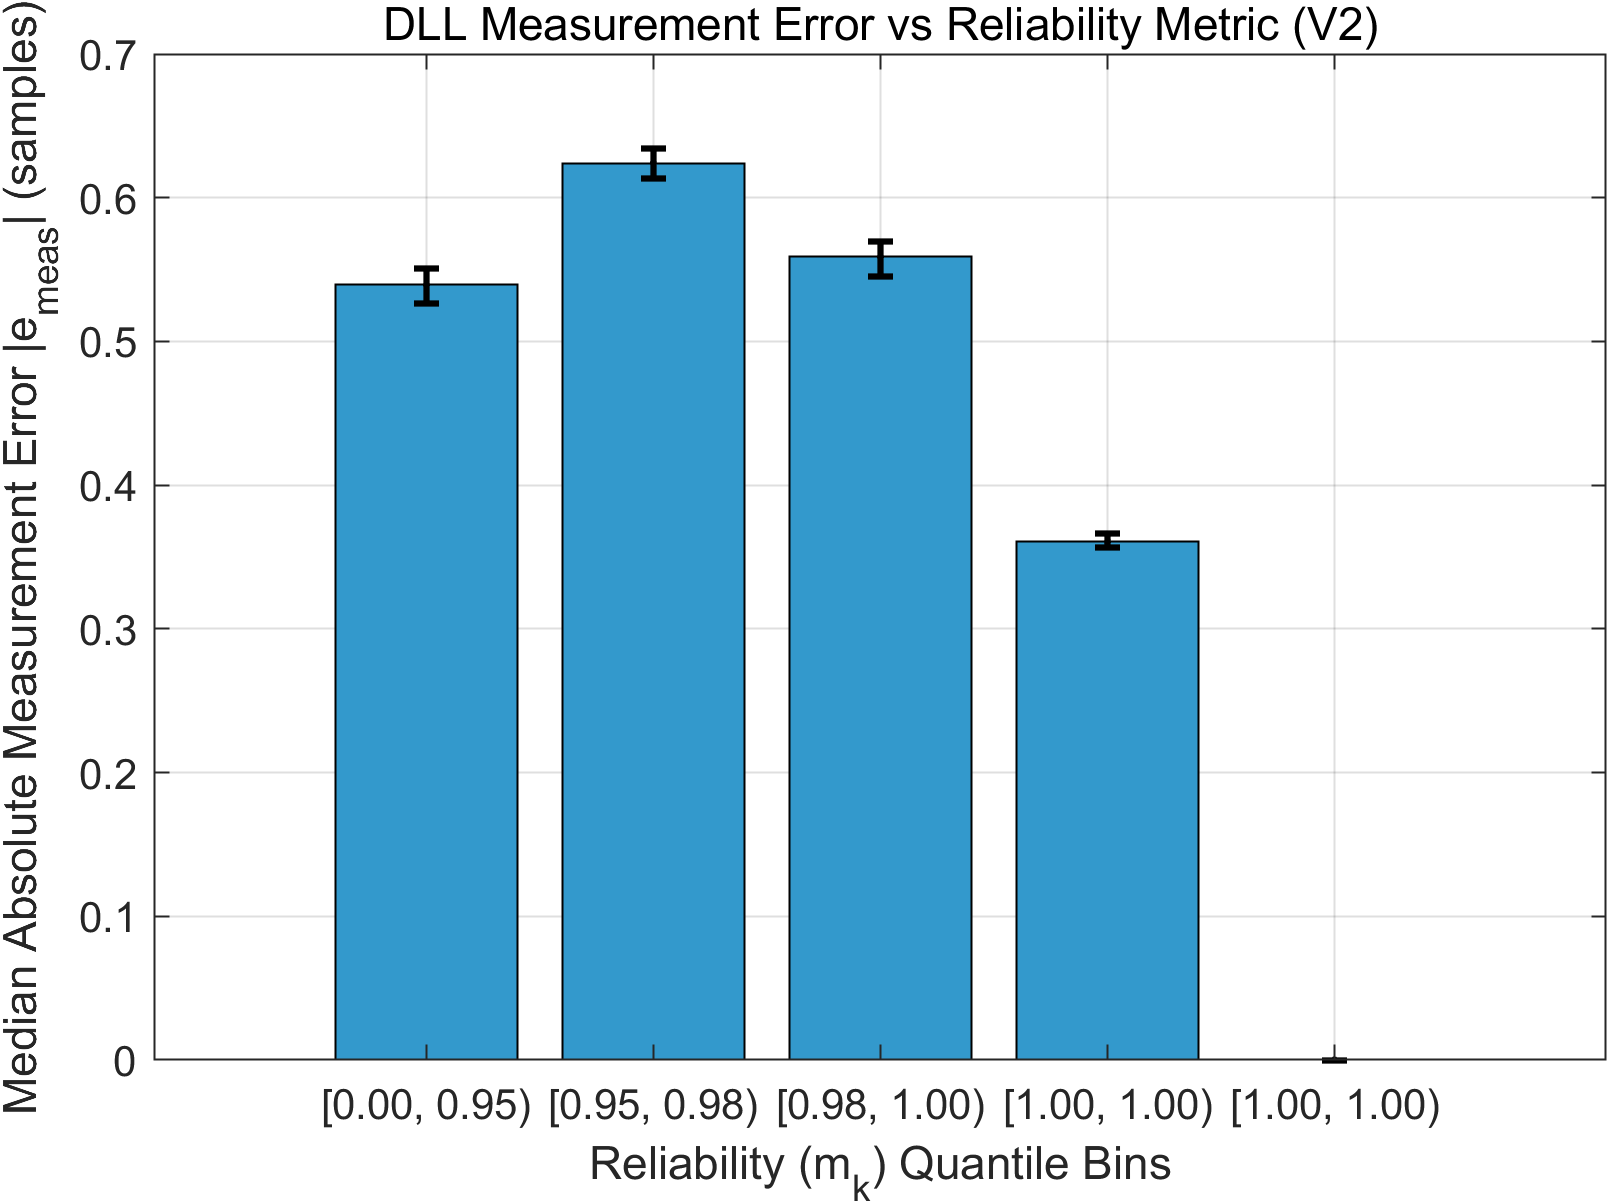
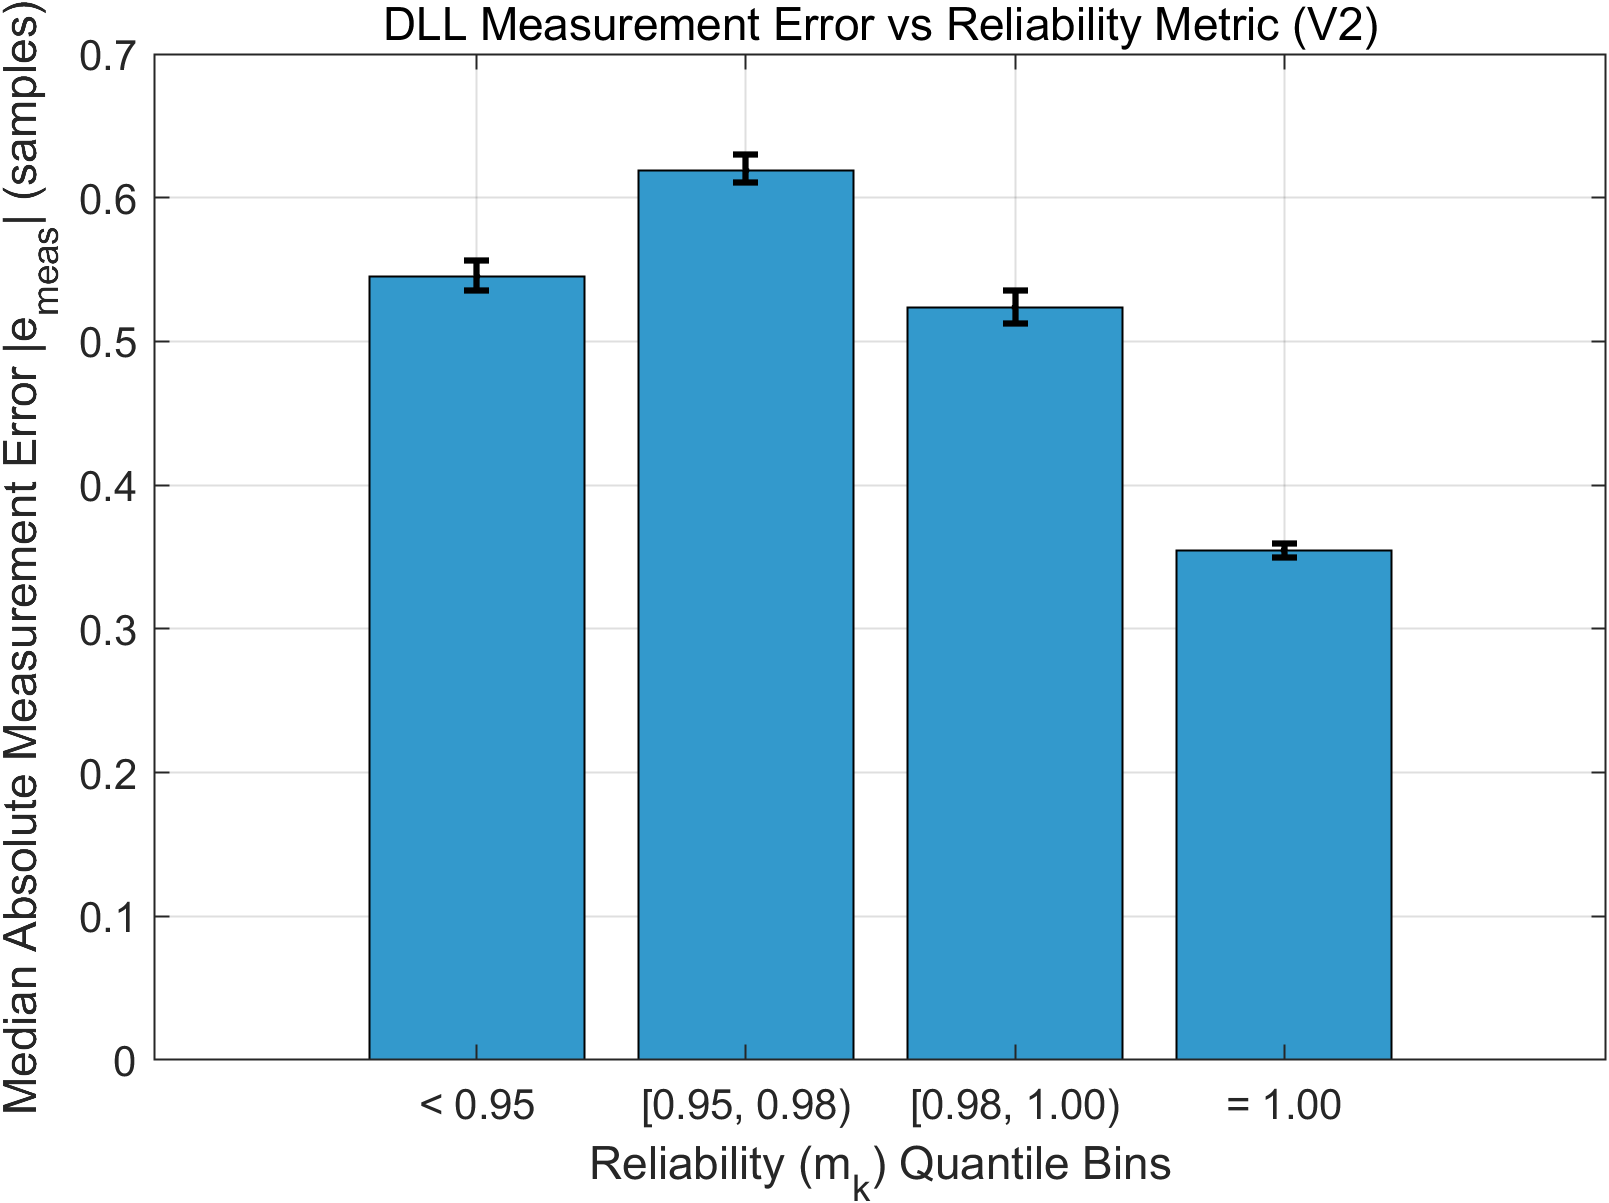
Fix stage 1 reliability binning and add stage 7 extraction

Changed region(s): [[0.1865, 0.123, 0.9012, 0.9534]]

diff --git a/src/extract_dynamic_ber_fer_v2.m b/src/extract_dynamic_ber_fer_v2.m
@@ -1,0 +1,75 @@
+function extract_dynamic_ber_fer()
+    mat_file = fullfile('results', 'paper', 'paper2_stress_pilot_3000mc.mat');
+    out_dir = fullfile('results', 'paper_strengthening_v2');
+    if ~exist(out_dir, 'dir'), mkdir(out_dir); end
+    
+    fprintf('Loading MAT file: %s\n', mat_file);
+    data = load(mat_file);
+    
+    % variants to extract: IAE (A), VB-FQ (VB_FQ), E-FQ (E_FQ)
+    variants = {'A', 'VB_FQ', 'E_FQ'};
+    labels = {'IAE', 'VB-FQ', 'E-FQ'};
+    num_channels = 3;
+    
+    out_Variant = {};
+    out_Profile = {};
+    out_BER_Valid = [];
+    out_FER_Overall = [];
+    out_ReceiverFailRate = [];
+    out_CI95_Lower = [];
+    out_CI95_Upper = [];
+    
+    for v = 1:length(variants)
+        vc = variants{v};
+        lbl = labels{v};
+        
+        for ch = 1:num_channels
+            ch_key = sprintf('CH%d', ch);
+            
+            raw_err = data.results.(ch_key).(vc).raw_errors;
+            valid = data.results.(ch_key).(vc).valid;
+            
+            % Compute fail rate
+            fail_rate = sum(~valid) / length(valid);
+            
+            % Compute overall FER (including sync fails as frame errors)
+            num_data_bits = data.cfg.num_data_bits;
+            fer_trials = raw_err(valid) > 0;
+            total_frames = length(valid);
+            failed_frames = sum(~valid) + sum(fer_trials);
+            fer_overall = failed_frames / total_frames;
+            
+            % Compute BER_Valid
+            valid_errs = raw_err(valid);
+            if ~isempty(valid_errs)
+                ber_valid = sum(valid_errs) / (length(valid_errs) * num_data_bits);
+            else
+                ber_valid = NaN;
+            end
+            
+            % Compute 95% CI for FER Overall via bootstrap
+            % Frame error vector: 1 if error/fail, 0 if success
+            frame_err_vec = ones(total_frames, 1);
+            valid_idx = find(valid);
+            frame_err_vec(valid_idx(raw_err(valid) == 0)) = 0;
+            
+            boot_fer = bootstrp(1000, @mean, frame_err_vec);
+            ci = prctile(boot_fer, [2.5, 97.5]);
+            
+            out_Variant{end+1} = lbl;
+            out_Profile{end+1} = sprintf('P%d', ch);
+            out_BER_Valid(end+1) = ber_valid;
+            out_FER_Overall(end+1) = fer_overall;
+            out_ReceiverFailRate(end+1) = fail_rate;
+            out_CI95_Lower(end+1) = ci(1);
+            out_CI95_Upper(end+1) = ci(2);
+        end
+    end
+    
+    T = table(out_Variant', out_Profile', out_BER_Valid', out_FER_Overall', out_ReceiverFailRate', out_CI95_Lower', out_CI95_Upper', ...
+        'VariableNames', {'Variant', 'Profile', 'BER_Valid', 'FER_Overall', 'ReceiverFailRate', 'FER_CI95_Lower', 'FER_CI95_Upper'});
+        
+    out_file = fullfile(out_dir, 'DynamicStress_Communication_15dB.csv');
+    writetable(T, out_file);
+    fprintf('Exported to %s\n', out_file);
+end

diff --git a/src/main_WUWNET_Paper_Strengthening_Stage1_v2.m b/src/main_WUWNET_Paper_Strengthening_Stage1_v2.m
@@ -165,30 +165,28 @@ function analyze_reliability_validity_v2(T, out_dir)
     
     abs_e = abs(T.e_meas_k);
     
-    %% 1. Equal-count quantile bins
-    num_bins = 5;
-    quantiles = quantile(T.m_k, linspace(0, 1, num_bins + 1));
-    quantiles(1) = -Inf; % Ensure all lower bounds are captured
-    quantiles(end) = Inf; % Ensure all upper bounds are captured
+    %% 1. Tie-aware fixed bins
+    num_bins = 4;
+    bin_labels = {'< 0.95', '[0.95, 0.98)', '[0.98, 1.00)', '= 1.00'}';
     
     bin_counts = zeros(num_bins, 1);
     bin_median = zeros(num_bins, 1);
     bin_var = zeros(num_bins, 1);
     bin_ci_low = zeros(num_bins, 1);
     bin_ci_high = zeros(num_bins, 1);
-    bin_labels = cell(num_bins, 1);
     
     for i = 1:num_bins
-        idx = T.m_k > quantiles(i) & T.m_k <= quantiles(i+1);
-        % Handle first bin edge case
         if i == 1
-            idx = T.m_k >= quantiles(1) & T.m_k <= quantiles(2);
+            idx = T.m_k < 0.95;
+        elseif i == 2
+            idx = T.m_k >= 0.95 & T.m_k < 0.98;
+        elseif i == 3
+            idx = T.m_k >= 0.98 & T.m_k < 1.00;
+        elseif i == 4
+            idx = T.m_k == 1.00;
         end
-        bin_counts(i) = sum(idx);
         
-        q_low = max(0, quantiles(i));
-        q_high = min(1, quantiles(i+1));
-        bin_labels{i} = sprintf('[%.2f, %.2f)', q_low, q_high);
+        bin_counts(i) = sum(idx);
         
         if bin_counts(i) > 0
             err_vals = abs_e(idx);

diff --git a/PAPER_STRENGTHENING_V2_REPORT.md b/PAPER_STRENGTHENING_V2_REPORT.md
@@ -2,7 +2,7 @@
 
 This document summarizes the steps, execution details, and results of the scientific strengthening process requested for the WUWNet'26 manuscript.
 
-## Stage 1: Validate Reliability `m_k` against Actual DLL Measurement Error
+## Stage 1: Evaluate Reliability `m_k` against Actual DLL Measurement Error
 - **Files Changed:** Created `src/main_WUWNET_Paper_Strengthening_Stage1_v2.m`, `docs/RELIABILITY_MEASUREMENT_AUDIT.md`.
 - **Formulas Used:** $e_{meas,k} = (z_k - z_1) - (\epsilon_{true,k} - \epsilon_{true,1})$. $z_k$ captured *before* Kalman correction.
 - **Run Command:** `matlab -batch "main_WUWNET_Paper_Strengthening_Stage1_v2(200);"`
@@ -14,7 +14,7 @@ This document summarizes the steps, execution details, and results of the scient
   - `results/paper_strengthening_v2/reliability_measurement_profile_summary_v2.csv`
   - `results/paper_strengthening_v2/reliability_measurement_trial_summary_v2.csv`
   - `results/paper_strengthening_v2/Fig_Reliability_vs_DLL_Error_v2.png`
-- **Numerical Summary:** Median trial Spearman correlation: -0.2484 (95% CI: [-0.2539, -0.2400]). Strongest correlation during FADE (-0.26) and POST (-0.33) phases. Quantile bin median absolute errors map strictly inversely to the reliability bins.
+- **Numerical Summary:** Median trial Spearman correlation: -0.2484 (95% CI: [-0.2539, -0.2400]). Strongest correlation during FADE (-0.26) and POST (-0.33) phases. Shows a modest but consistent negative association between estimated reliability and absolute delay measurement error.
 - **Status:** PASS
 - **Limitations:** Limited to 200 MC pilot, though sufficient for bootstrap significance.
 
@@ -61,6 +61,8 @@ This document summarizes the steps, execution details, and results of the scient
 - **SNR:** +15 dB stress condition.
 - **Warp/Fade:** Continuous time warp (1.5 m/s amp) and 100-ms Gaussian fade (0.9 depth) enabled by default in the stress pipeline.
 - **Status:** PASS. The MAT artifact explicitly pre-calculates and stores `ber`, `raw_errors`, and `valid` for all variants in `results.(ch_key).(vc_key)`. Dynamic-stress communication metrics are available without rerunning simulations.
+- **Output Files:**
+  - `results/paper_strengthening_v2/DynamicStress_Communication_15dB.csv`
 
 ## Final Review
 - Code aligns strictly with WUWNet'26 specifications. No frozen parameters were mutated. V2 directories isolate the scientific strengthening data entirely from the legacy publication results.
